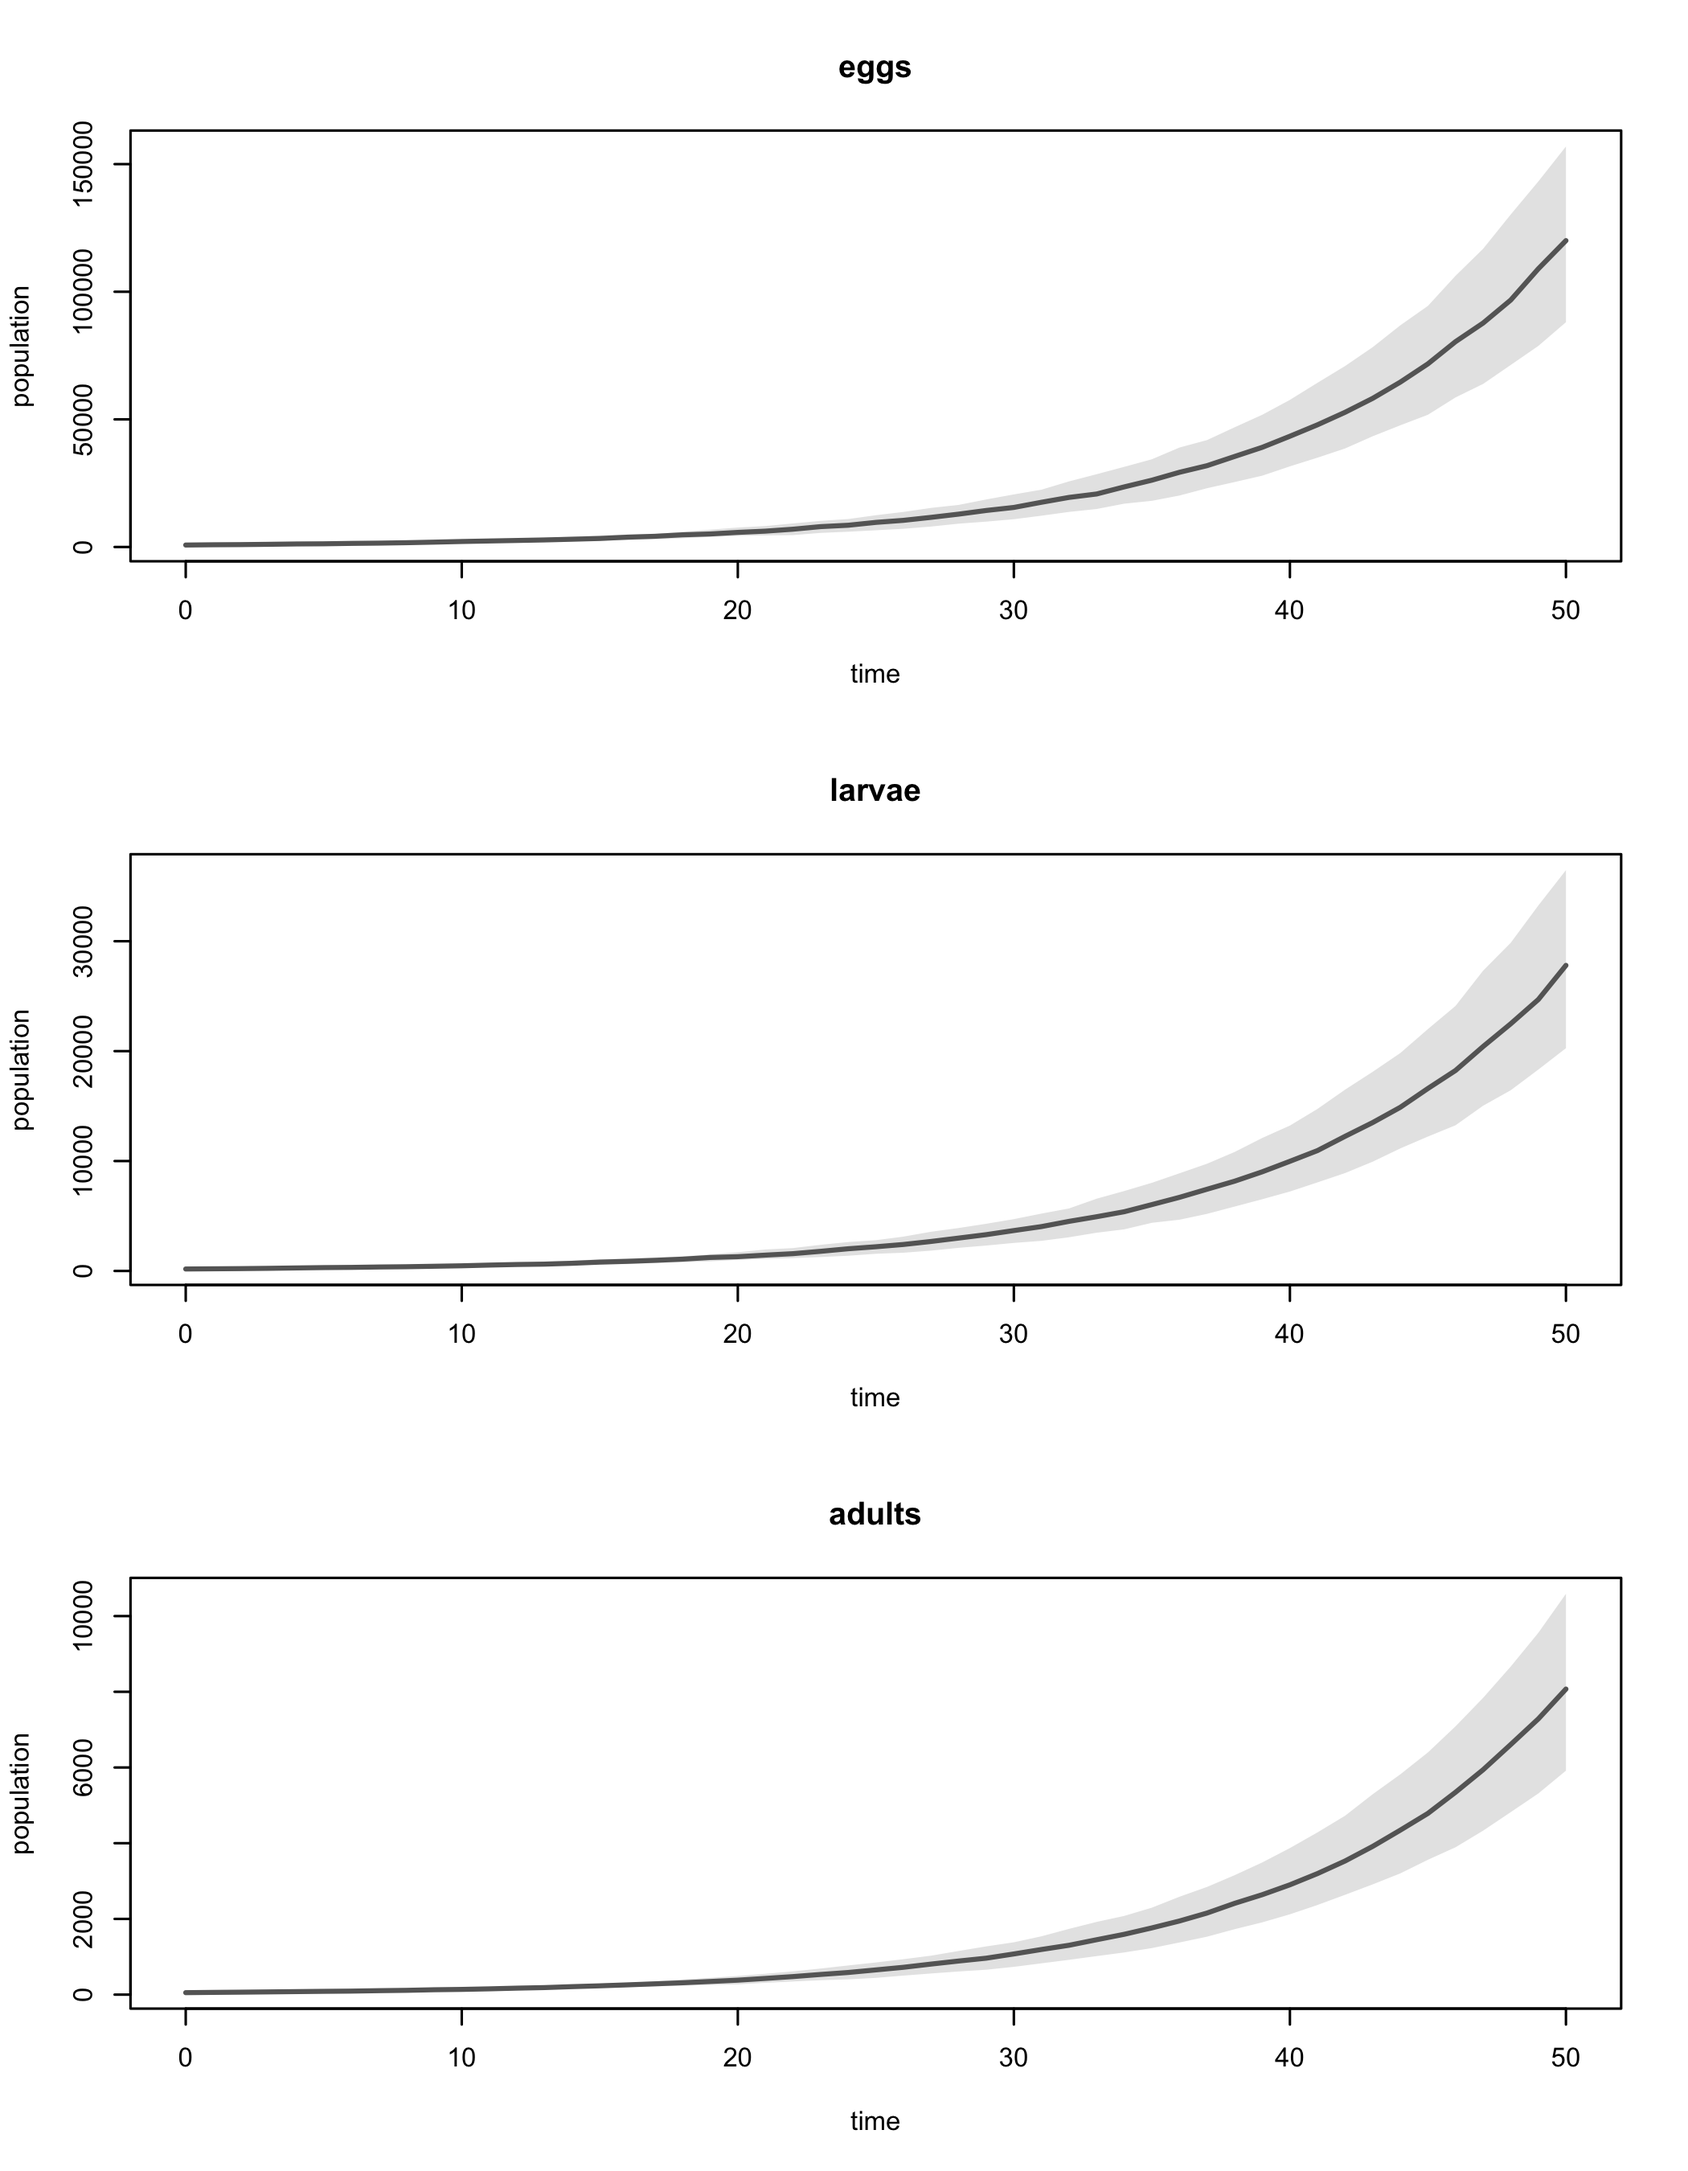
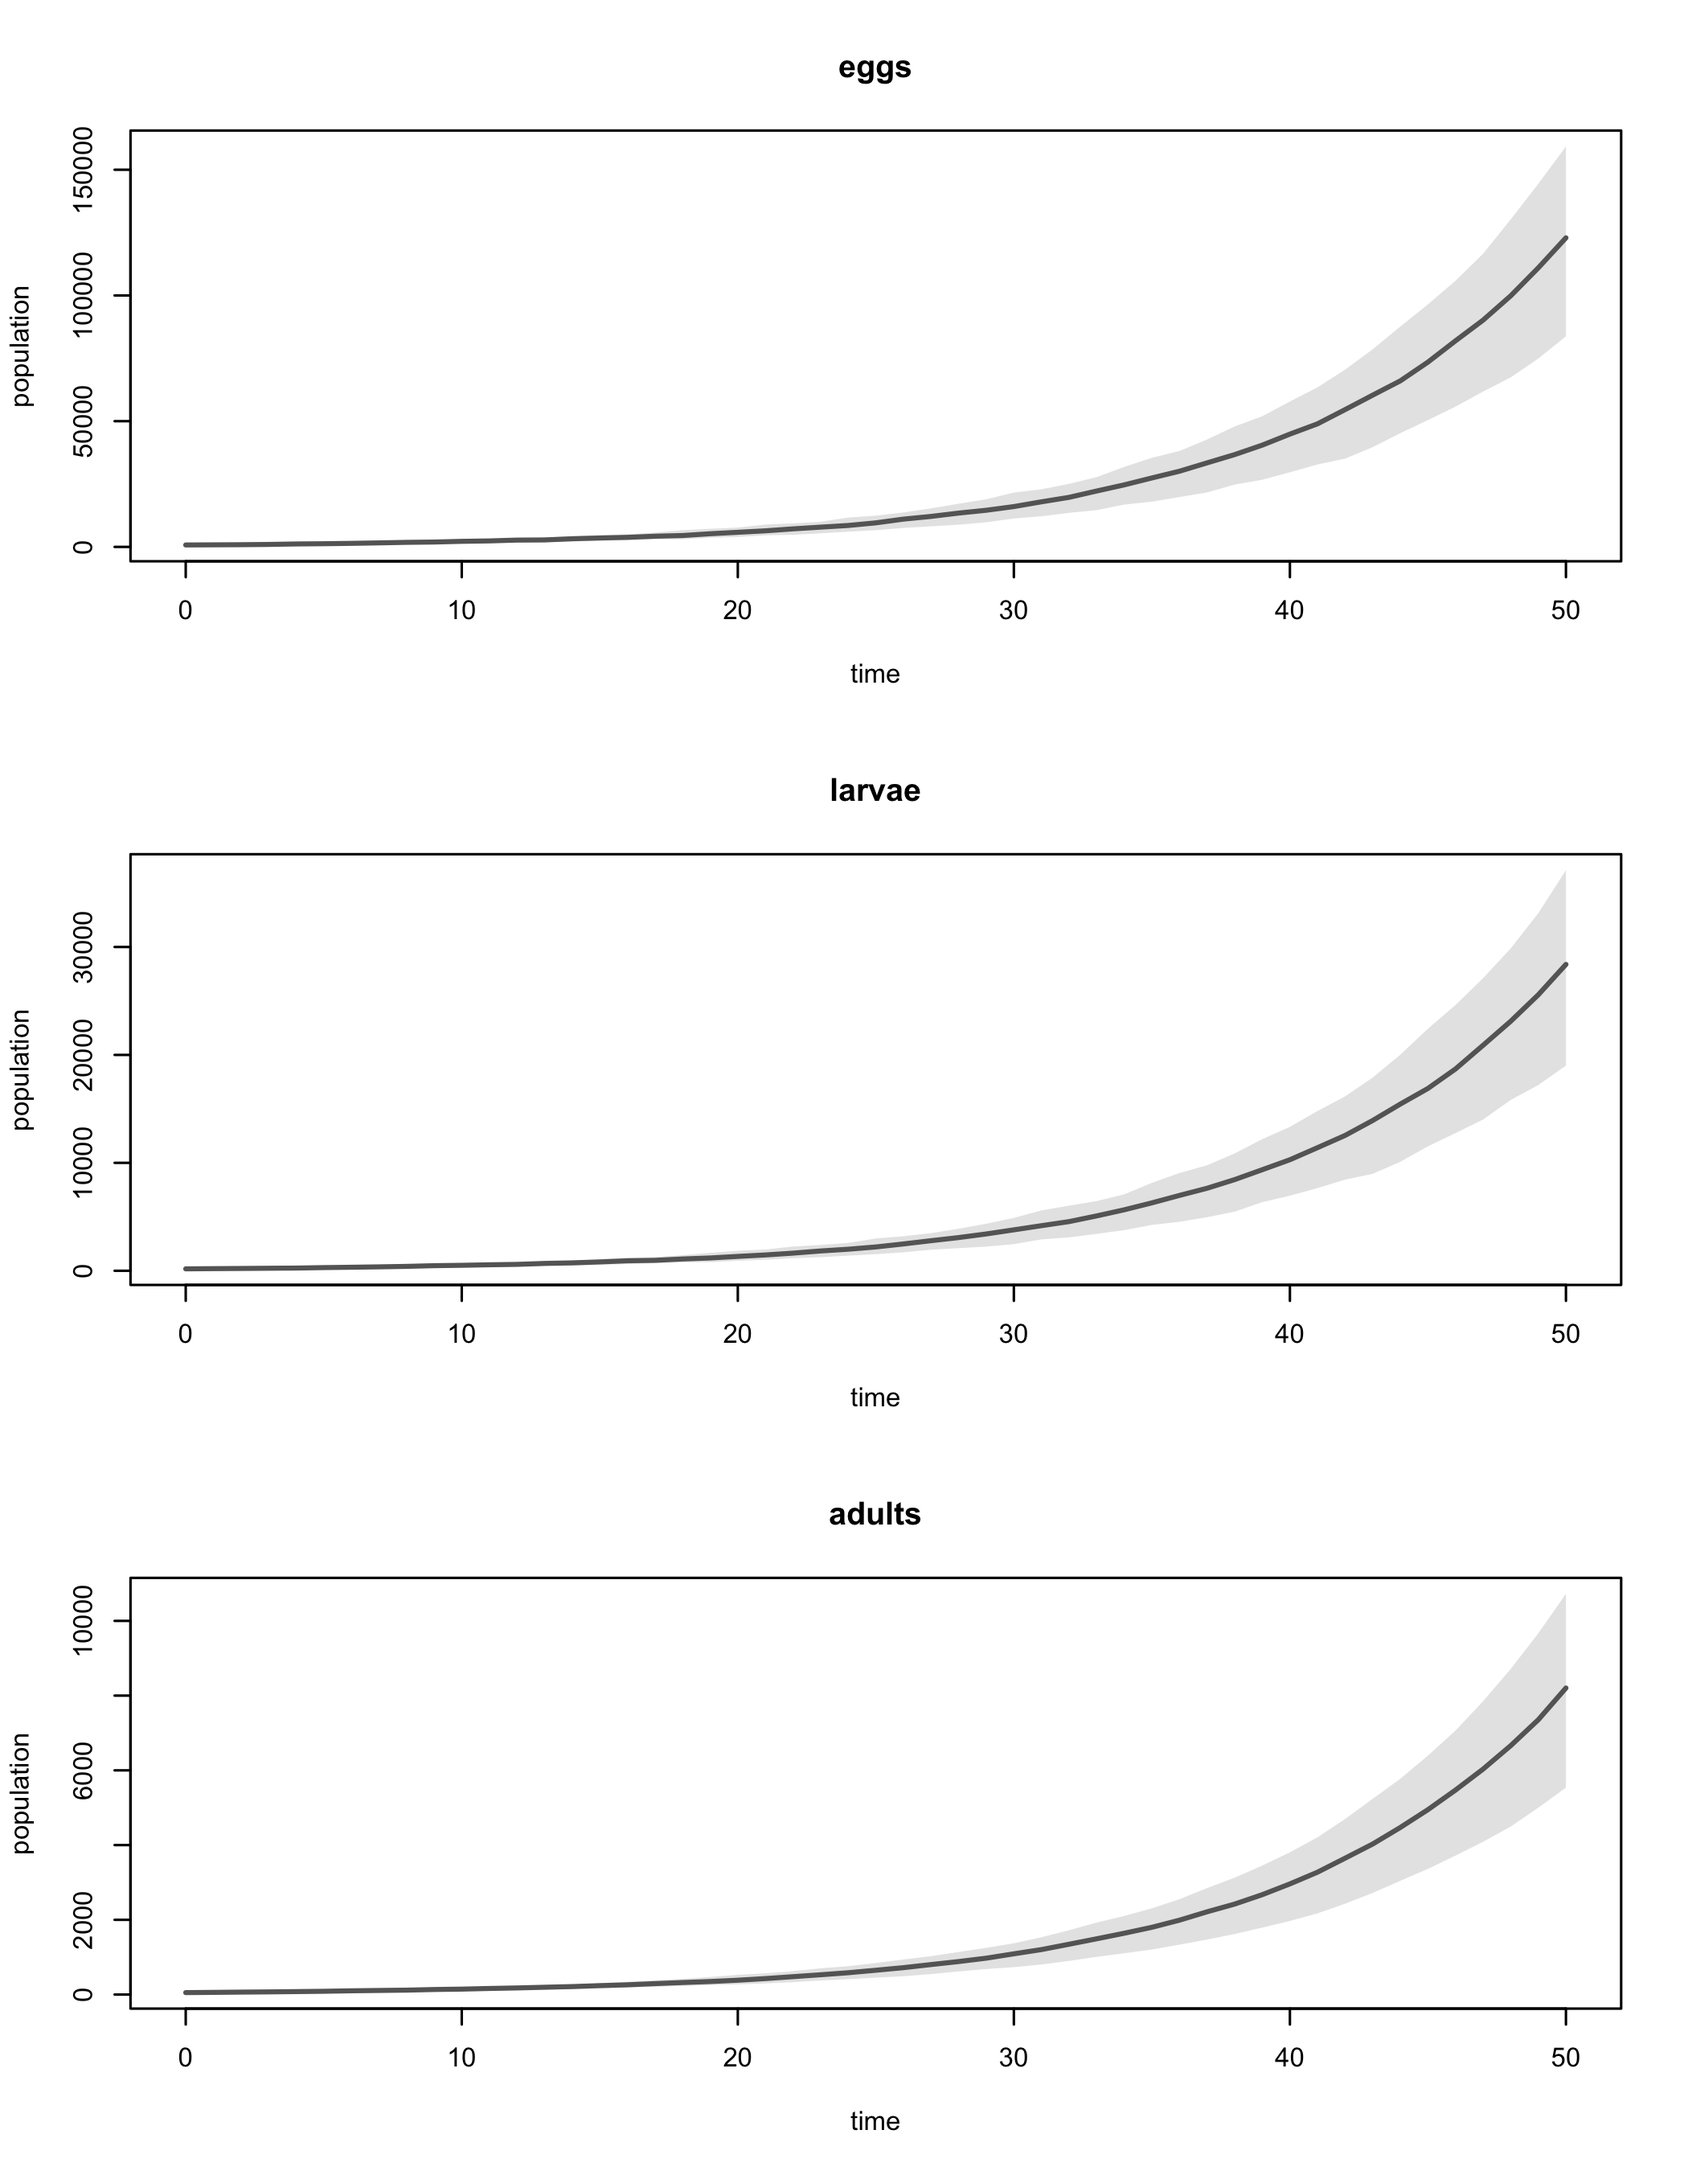
adding deterministic density dependent projection to the readme; ugly hack to overcome class conflict with popdemo

diff --git a/readme.md b/readme.md
@@ -132,7 +132,9 @@ plot(sim)
 
 ![](readme_files/figure-markdown_github/simulation-1.png)<!-- -->
 
-`pop` now support user-defined transition functions, where the parameter may depend on other things, like the population size, patch area or other environmental drivers.
+#### Density dependence
+
+`pop` now supports user-defined transition functions, where the parameter may depend on other things, like the population size, patch area or other environmental drivers.
 
 We can use this functionality to update the above simulation analysis with density-dependent adult survival (see `?as.transfun` for details on how to define bespoke transition functions):
 
@@ -167,3 +169,17 @@ plot(sim_dd)
 ```
 
 ![](readme_files/figure-markdown_github/dd_function-1.png)<!-- -->
+
+While we used the `popdemo` function `project` to make deterministic projections from the earlier density-*independent* model, that approach can't account for the effect of density dependence. Instead, we can use `pop`'s `projection` function to make deterministic density-dependent projections:
+
+``` r
+proj_dd <- projection(dynamic = all_dd,
+           population = population,
+           timesteps = 100)
+
+# and plot it
+par(mfrow = c(3, 1))
+plot(proj_dd)
+```
+
+![](readme_files/figure-markdown_github/deterministic_dd-1.png)<!-- -->
